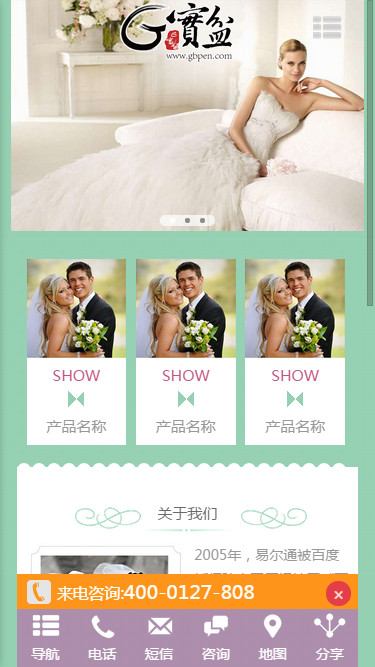
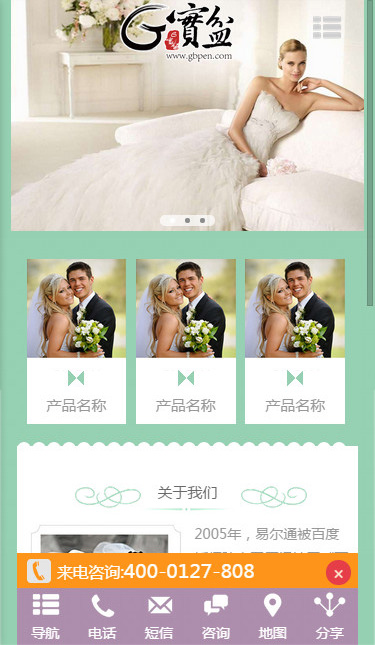
auto

diff --git a/public/templates/GP0052_335/css/css.css b/public/templates/GP0052_335/css/css.css
@@ -31,7 +31,7 @@ form img{float: left;}
 .nav h3 a{font-weight: bold;font-size: 14px;display: block;margin: 0 auto;margin-top: 17px;margin-left: -10px;background:url(../images/nav_r_14.png) no-repeat right center;}
 .nav .on{background:url(../images/sub_09_01.png) no-repeat center top;}
 .nav .sub{display: none; width:100%;left:0; top:74px;position:absolute;z-index: 999;background:rgba(120,23,5,0.7);}
-.nav .sub li{ zoom:1;width: 100%;height:30px;text-align: center; overflow: hidden;}
+.nav .sub li{ zoom:1;width: 100%;height:30px;text-align: center;}
 .nav .sub li:last-child{padding-bottom: 10px;}
 .nav .sub a{color: #f7ead2;height:30px;line-height: 30px;width:100%;display: block;margin: 0 auto;}
 .nav .sub a:hover{color: #fbe084;}
@@ -42,19 +42,20 @@ form img{float: left;}
 .slideBox .bd li{ zoom:1; vertical-align:middle; }
 
 /*产品滚动*/
-.gd{width: 1003px;margin: -49px auto 0;overflow: hidden;}
+.gd{width: 1003px;margin: -49px auto 0;overflow: hidden; }
 .pic_tit{width: 100%;height: 27px;padding-top: 20px;overflow: hidden;color: #d20012;font-size: 16px;font-family: "微软雅黑";border-bottom: 1px solid #d8d8d8;}
 .pic_tit span{font-size: 12px;color: #727272;}
 .gd .pic_tit a{float: right;font-size: 12px;}
-.picMarquee{position: relative;}
+.picMarquee{ position: relative;}
 .picMarquee .prev{ width: 30px; height: 30px;background: url(../images/picl_36.png) no-repeat center center; position: absolute; top: 50%;margin-top: -33px; z-index: 10; cursor: pointer; text-indent: -9999px;left:-70px;}
 .picMarquee .next{ width: 30px; height: 30px;background: url(../images/picr_39.png) no-repeat center center; position: absolute; top: 50%;margin-top: -33px; z-index: 10; cursor: pointer; text-indent: -9999px;right:-70px;}
 
 
 /*产品分类*/
-.gd .picMarquee{width: 863px;margin: 0 auto;}
+.gd .picMarquee{width: 863px;margin:20px auto; min-height: 200px; }
 .gd .picMarquee .tempWrap{overflow: hidden;margin:18px auto 0px;width: 100% !important;}
-.gd .picMarquee li{float: left;width:203px;overflow: hidden;margin: 0 12px;}
+.gd .picMarquee  ul{ overflow: hidden;}
+.gd .picMarquee li{float: left;width:191px;overflow: hidden;margin: 0 12px;}
  a.pic{width:203px;overflow: hidden;display: block;padding: 6px;}
 .gd .picMarquee li img{width:100%;overflow:hidden;position:relative;}
  a.title{width: 100%;height: 42px;line-height: 42px;display: block;text-align: left;color: #575757;font-size: 12px;white-space: nowrap;overflow: hidden; text-overflow: ellipsis;text-align:center;}

diff --git a/public/templates/GP0052/css/css.css b/public/templates/GP0052/css/css.css
@@ -42,18 +42,19 @@ form img{float: left;}
 .slideBox .bd li{ zoom:1; vertical-align:middle; }
 
 /*产品滚动*/
-.gd{width: 1003px;margin: -49px auto 0;overflow: hidden;}
+.gd{width: 1003px;margin: -49px auto 0;overflow: hidden; }
 .pic_tit{width: 100%;height: 27px;padding-top: 20px;overflow: hidden;color: #d20012;font-size: 16px;font-family: "微软雅黑";border-bottom: 1px solid #d8d8d8;}
 .pic_tit span{font-size: 12px;color: #727272;}
 .gd .pic_tit a{float: right;font-size: 12px;}
-.picMarquee{position: relative;}
+.picMarquee{ position: relative;}
 .picMarquee .prev{ width: 30px; height: 30px;background: url(../images/picl_36.png) no-repeat center center; position: absolute; top: 50%;margin-top: -33px; z-index: 10; cursor: pointer; text-indent: -9999px;left:-70px;}
 .picMarquee .next{ width: 30px; height: 30px;background: url(../images/picr_39.png) no-repeat center center; position: absolute; top: 50%;margin-top: -33px; z-index: 10; cursor: pointer; text-indent: -9999px;right:-70px;}
 
 
 /*产品分类*/
-.gd .picMarquee{width: 863px;margin: 0 auto;}
+.gd .picMarquee{width: 863px;margin:20px auto; min-height: 200px; }
 .gd .picMarquee .tempWrap{overflow: hidden;margin:18px auto 0px;width: 100% !important;}
+.gd .picMarquee  ul{ overflow: hidden;}
 .gd .picMarquee li{float: left;width:191px;overflow: hidden;margin: 0 12px;}
  a.pic{width:203px;overflow: hidden;display: block;padding: 6px;}
 .gd .picMarquee li img{width:100%;overflow:hidden;position:relative;}

diff --git a/public/templates/GM0088/css/css.css b/public/templates/GM0088/css/css.css
@@ -35,7 +35,7 @@
 #in_text .inner ul{  width:96%; margin:auto}
 #in_text ul li{ border-radius:5px;  width:98%; margin-bottom:15px; position:relative; padding:10px 0; }
 #in_text ul li .pic{ width:17%; border-radius:50%; border:2px solid #36a6d9; overflow:hidden; float:left; margin-right:2%;}
-#in_text ul li .in_textbox{ width:80%; overflow:hidden; margin:auto; }
+#in_text ul li .in_textbox{ width:80%; overflow:hidden; margin:auto; float:left; margin-left:1%; display:inline }
 #in_text ul li .in_textbox h2{overflow:hidden; margin:auto; border-bottom:1px dashed #cfcfd0; font-size:16px; line-height:30px; height:30px; }
 #in_text ul li .in_textbox .in_title{ height:22px; line-height:22px; display:block; white-space:nowrap; text-overflow:ellipsis; overflow:hidden; font-size:1.1em; color:#171717;float:left; margin-top:5px;}
 #in_text ul li .in_textbox .in_data{font-size:14px; color:#b0b0b0;  font-size:12px; }

diff --git a/app/views/templates/GM0051/index.html b/app/views/templates/GM0051/index.html
@@ -74,7 +74,7 @@
               <li>
                 <div onClick="javascript:window.location.href='{$mIndexCat.link}'"> <img src="{$article.image}" /></div>
                 <div class="text">
-                <div class="english">SHOW</div>
+
                 <div class="triangles"></div>
                 <div class="word"><a href="{$article.link}" class="public_color">{$article.title}</a></div>
                 </div>

diff --git a/app/views/templates/GP0052/_index_pic.html b/app/views/templates/GP0052/_index_pic.html
@@ -7,6 +7,10 @@
                             <a href="{$article.link}" class="title">{$article.title}</a>
                          </li>
                     {/foreach}
+
+
+
+
 				</ul>
                  <a class="prev" href="javascript:void(0)"></a>
                 <a class="next" href="javascript:void(0)"></a>       

diff --git a/app/views/templates/GM0060/index.html b/app/views/templates/GM0060/index.html
@@ -95,7 +95,9 @@
            
          </div>   
           
-        
+        <div class="foot">
+         <div class="top"><a href="#" class="back-top">∧</a></div>{$footprint} 
+        </div>    
         {$footscript}              
         </div>
 

diff --git a/app/views/templates/GM0060/content-news.html b/app/views/templates/GM0060/content-news.html
@@ -75,7 +75,7 @@
  <div class="top"><a href="#" class="back-top">∧</a></div>{$footprint} 
 </div>         
    </div>
-   {$footprint}  
+   {*$footprint*}   
 {$footscript}  
 </body>
 </html>

diff --git a/app/views/templates/GM0060/list-imagetext.html b/app/views/templates/GM0060/list-imagetext.html
@@ -101,7 +101,7 @@
  <div class="top"><a href="#" class="back-top">∧</a></div>{$footprint} 
 </div>      
    </div>
-   {$footprint}  
+   {*$footprint*}   
 {$footscript}  
 </body>
 </html>

diff --git a/app/views/templates/GM0060/list-image.html b/app/views/templates/GM0060/list-image.html
@@ -96,7 +96,7 @@
  <div class="top"><a href="#" class="back-top">∧</a></div>{$footprint} 
 </div>      
    </div>
-   {$footprint}  
-{$footscript}  
+
+   {*$footprint*}  
 </body>
 </html>

diff --git a/app/views/templates/GM0060/content-product.html b/app/views/templates/GM0060/content-product.html
@@ -89,7 +89,7 @@
  <div class="top"><a href="#" class="back-top">∧</a></div>{$footprint} 
 </div>       
    </div>
-   {$footprint}  
+   {*$footprint*}  
 {$footscript}  
 </body>
 </html>

diff --git a/app/views/templates/GM0060/list-text.html b/app/views/templates/GM0060/list-text.html
@@ -94,7 +94,7 @@
  <div class="top"><a href="#" class="back-top">∧</a></div>{$footprint} 
 </div>       
    </div>
-   {$footprint}  
+   {*$footprint*}  
 {$footscript}  
 </body>
 </html>

diff --git a/app/views/templates/GM0060/list-page.html b/app/views/templates/GM0060/list-page.html
@@ -88,7 +88,7 @@
  <div class="top"><a href="#" class="back-top">∧</a></div>{$footprint} 
 </div>      
    </div>
-   {$footprint}  
+   {*$footprint*}  
 {$footscript}  
 </body>
 </html>
